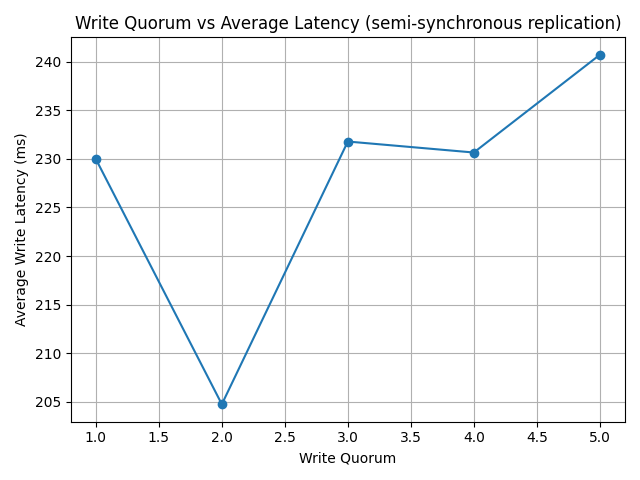
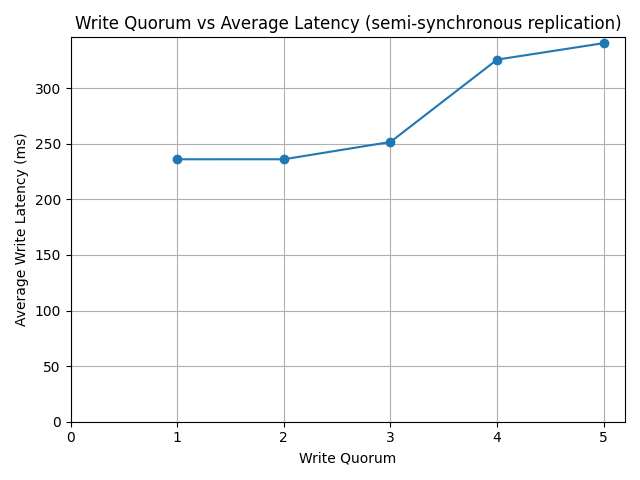
made little changes

diff --git a/performance_analysis.py b/performance_analysis.py
@@ -147,14 +147,24 @@ def main() -> None:
         check_data_consistency(label=f"after write_quorum={q}")
 
     # Plot write_quorum vs average latency
+    print("\n=== Generating plot ===")
     plt.figure()
     plt.plot(quorums, avg_latencies, marker="o")
     plt.xlabel("Write Quorum")
     plt.ylabel("Average Write Latency (ms)")
     plt.title("Write Quorum vs Average Latency (semi-synchronous replication)")
+    plt.xlim(left=0)
+    plt.ylim(bottom=0)
     plt.grid(True)
     plt.tight_layout()
     plt.savefig("write_quorum_vs_latency.png")
+    print("Plot saved as 'write_quorum_vs_latency.png'")
+    
+    print("\n=== SUMMARY ===")
+    for q, lat in zip(quorums, avg_latencies):
+        print(f"Quorum {q}: {lat:.2f} ms")
+    
+    print("\n=== Performance analysis complete! ===")
     plt.show()
 
 

diff --git a/README.md b/README.md
@@ -145,7 +145,7 @@ python3 performance_analysis.py
 
 And we get the following output showing the average latency for different quorum sizes:
 
-![quorum_vs_latency.png](report_images%2Fquorum_vs_latency.png)
+![write_quorum_vs_latency.png](%2Fwrite_quorum_vs_latency.png)
 
 We also get the following output in the terminal showing the average and median latency values for each quorum size, as well as checks for consistency:
 
